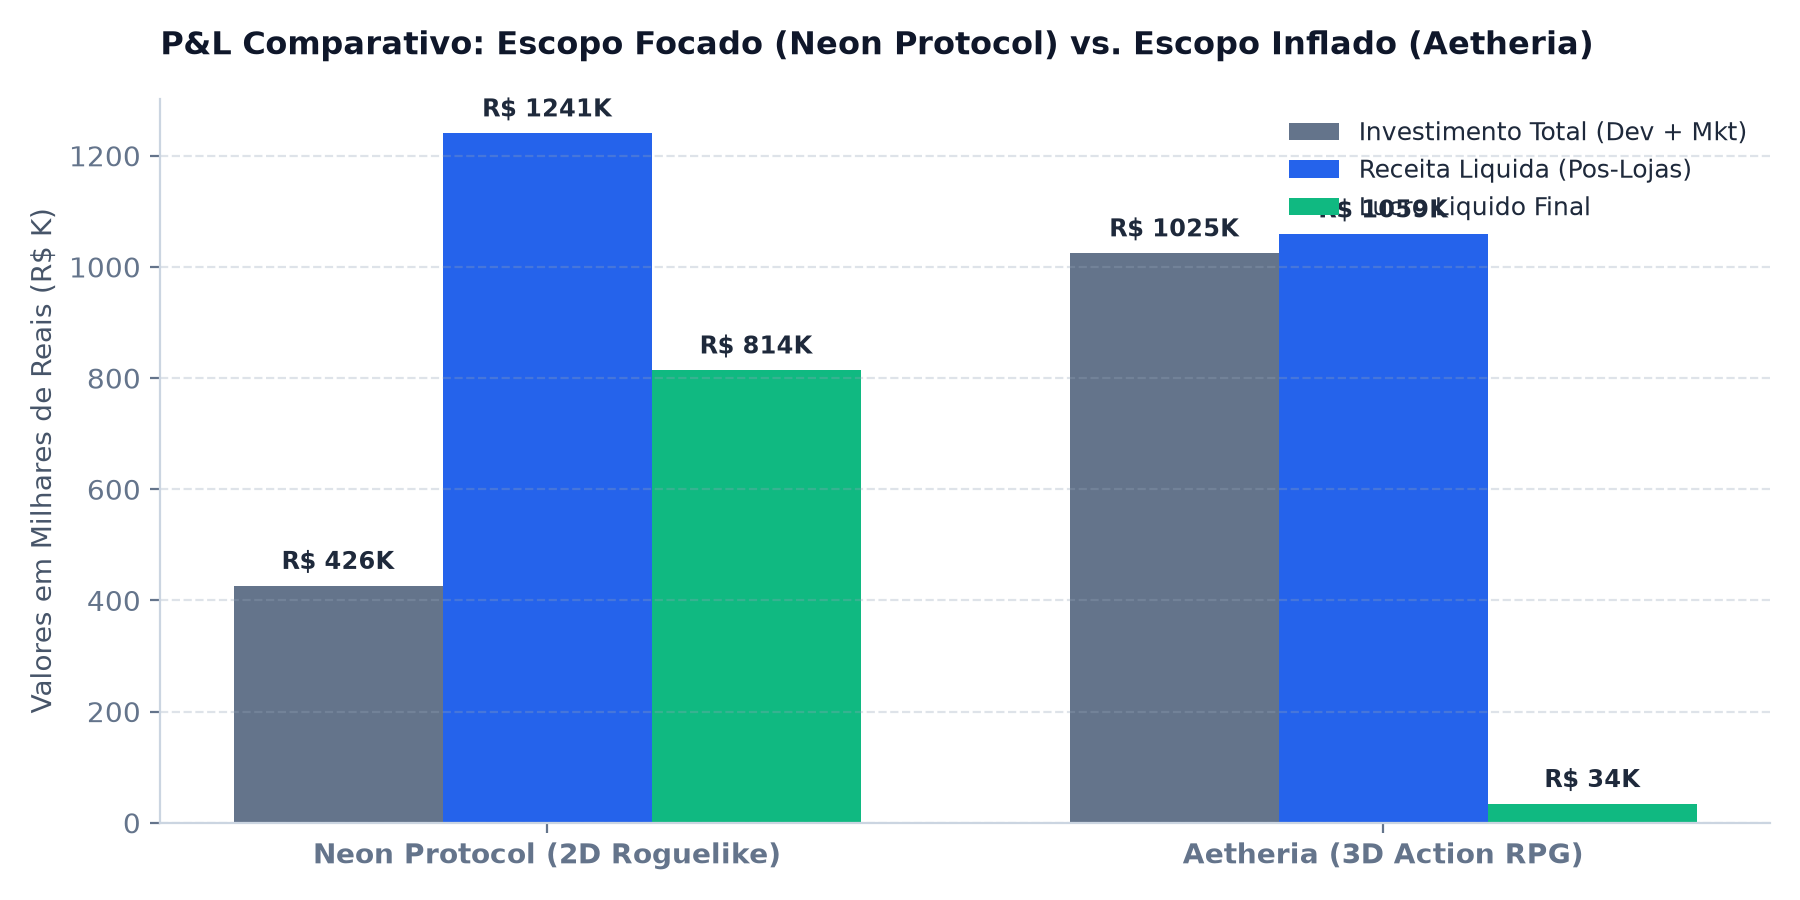
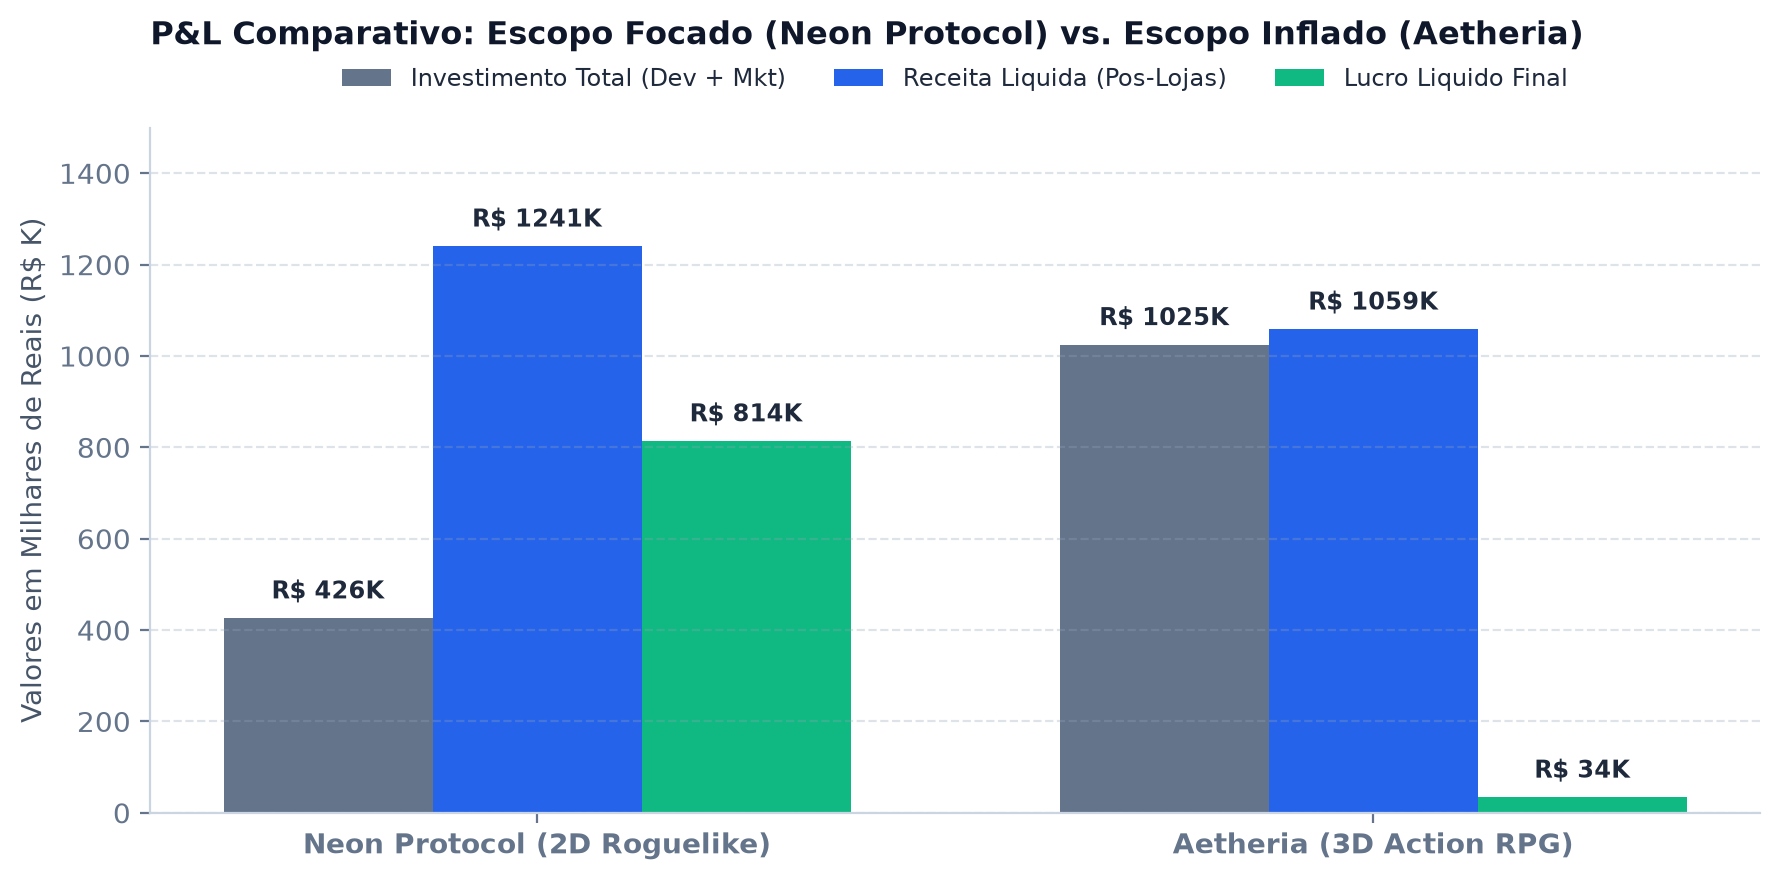
fix: reposicionar legenda e ajustar escala do eixo Y no Grafico 1 para eliminar sobreposicao

diff --git a/03-indie-game-studio-analytics/pipeline_etl/generate_studio_charts.py b/03-indie-game-studio-analytics/pipeline_etl/generate_studio_charts.py
@@ -56,7 +56,10 @@ def generate_chart_1(conn):
     ax.set_ylabel("Valores em Milhares de Reais (R$ K)", fontsize=10)
     ax.set_xticks(x)
     ax.set_xticklabels(["Neon Protocol (2D Roguelike)", "Aetheria (3D Action RPG)"], fontsize=10, fontweight="bold")
-    ax.legend(frameon=False, loc="upper right", fontsize=9)
+    ax.set_ylim(0, 1500)
+    
+    # Legenda horizontal no topo para evitar colisao com as barras
+    ax.legend(frameon=False, loc="upper center", bbox_to_anchor=(0.5, 1.12), ncol=3, fontsize=8.8)
     ax.spines["top"].set_visible(False)
     ax.spines["right"].set_visible(False)
     ax.grid(axis="y", linestyle="--", alpha=0.3, color="#94a3b8")
@@ -66,7 +69,7 @@ def generate_chart_1(conn):
             height = rect.get_height()
             ax.annotate(f"R$ {height:.0f}K",
                         xy=(rect.get_x() + rect.get_width() / 2, height),
-                        xytext=(0, 4),
+                        xytext=(0, 5),
                         textcoords="offset points",
                         ha="center", va="bottom", fontsize=8.5, fontweight="bold")
 
@@ -75,11 +78,11 @@ def generate_chart_1(conn):
     autolabel(rects3)
 
     plt.title("P&L Comparativo: Escopo Focado (Neon Protocol) vs. Escopo Inflado (Aetheria)", 
-              fontsize=11.5, fontweight="bold", pad=16, loc="left", color="#0f172a")
+              fontsize=11.5, fontweight="bold", pad=30, loc="left", color="#0f172a")
 
     output_path = os.path.join(OUTPUT_DIR, "01_pl_comparativo_jogos.png")
     plt.tight_layout()
-    plt.savefig(output_path)
+    plt.savefig(output_path, bbox_inches="tight")
     plt.close()
     print(f" [PASS] Grafico 1 salvo em: {output_path}")
 
@@ -100,12 +103,13 @@ def generate_chart_2(conn):
     ax.plot(x_indices, df["saldo_k"], color="#2563eb", linewidth=2.4, marker="o", markersize=4, label="Saldo de Caixa")
     ax.axhline(0, color="#ef4444", linestyle="--", linewidth=1.2, alpha=0.8, label="Linha de Insolvencia (R$ 0)")
 
-    # Destaque do Vale da Morte em maio/2026 (-R$ 38.4K)
+    # Destaque do Ponto Mais Baixo de Caixa
     min_idx = df["saldo_k"].idxmin()
     min_val = df.loc[min_idx, "saldo_k"]
+    min_mes = df.loc[min_idx, "ano_mes"]
     ax.scatter([min_idx], [min_val], color="#ef4444", s=70, zorder=5)
-    ax.annotate(f"Vale da Morte (Mai/2026)\nR$ {min_val:.1f}K (Insolvencia Iminente)",
-                xy=(min_idx, min_val), xytext=(min_idx - 5, min_val + 120),
+    ax.annotate(f"Ponto Mais Baixo ({min_mes})\nR$ {min_val:.1f}K (Pre-Lancamento)",
+                xy=(min_idx, min_val), xytext=(min_idx - 5, min_val + 130),
                 arrowprops=dict(facecolor="#ef4444", shrink=0.08, width=1.2, headwidth=6),
                 fontsize=8.5, fontweight="bold", color="#dc2626")
 
